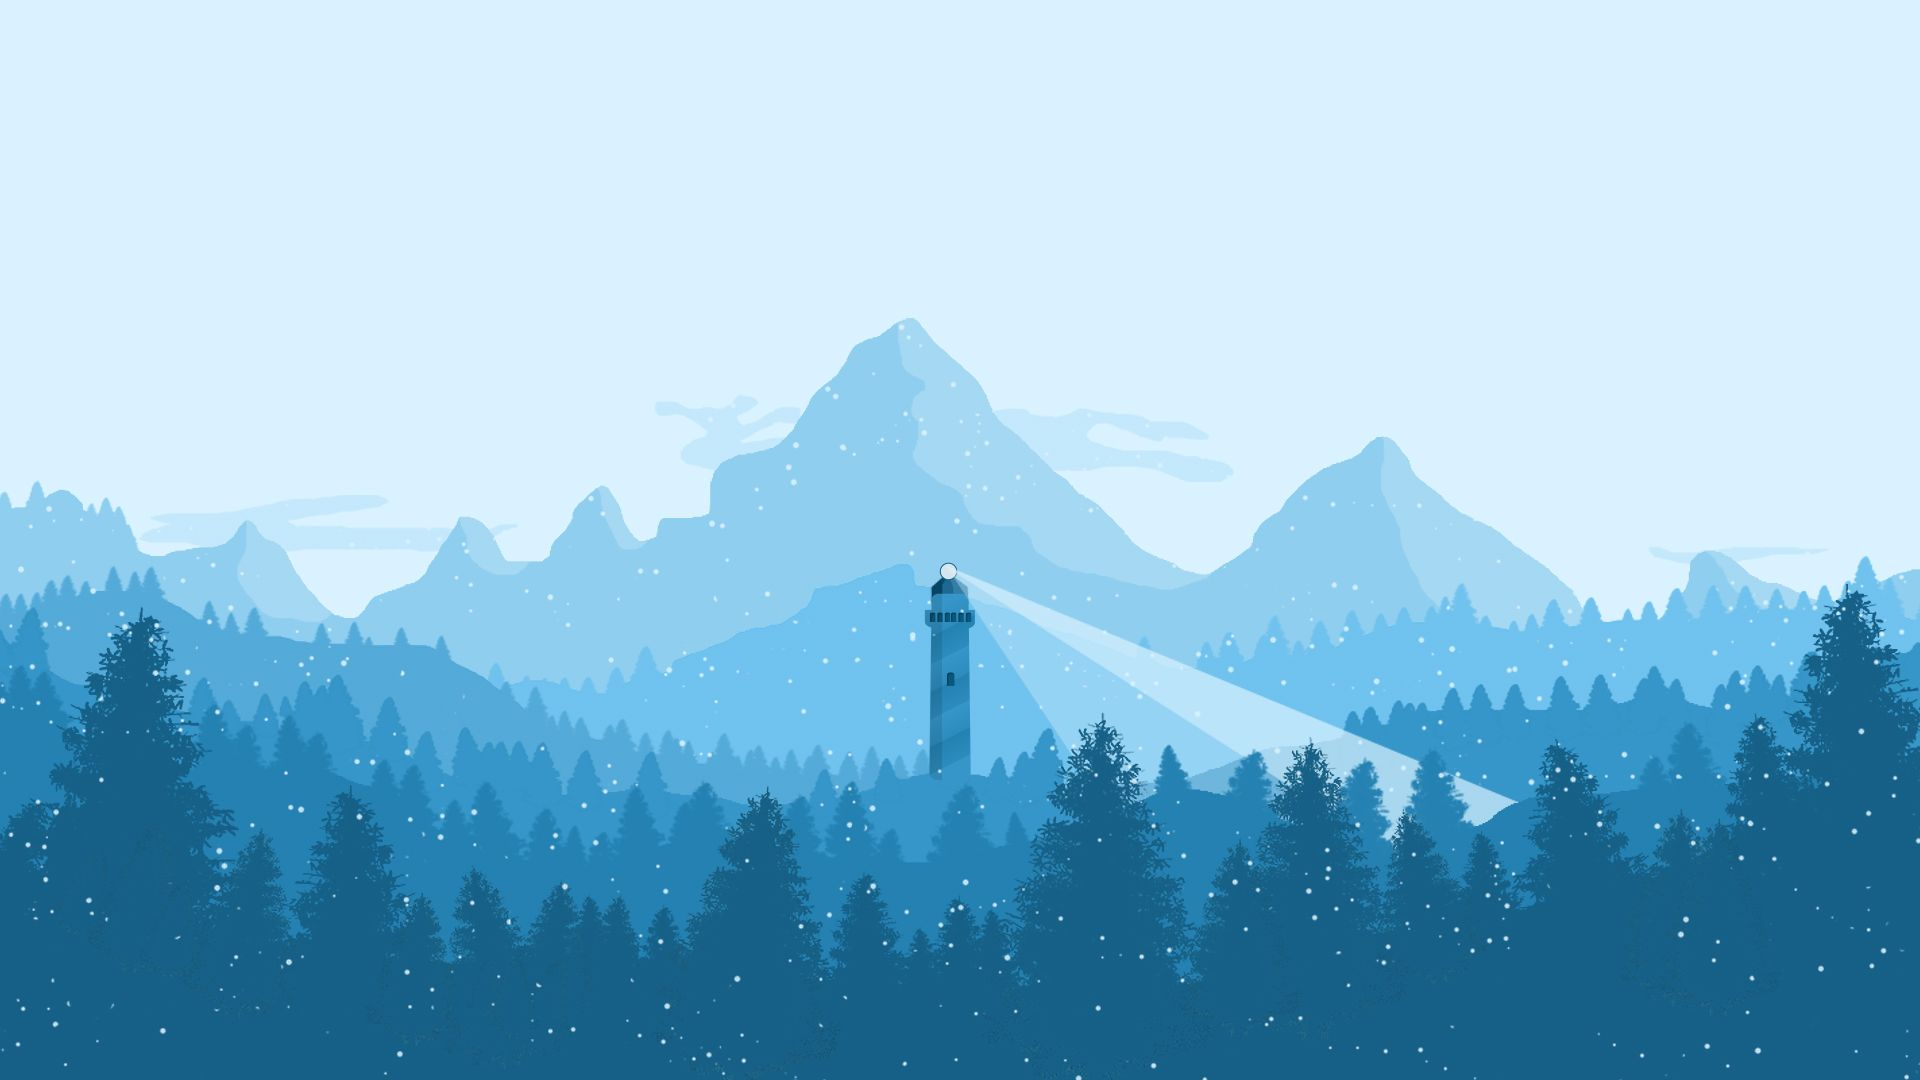
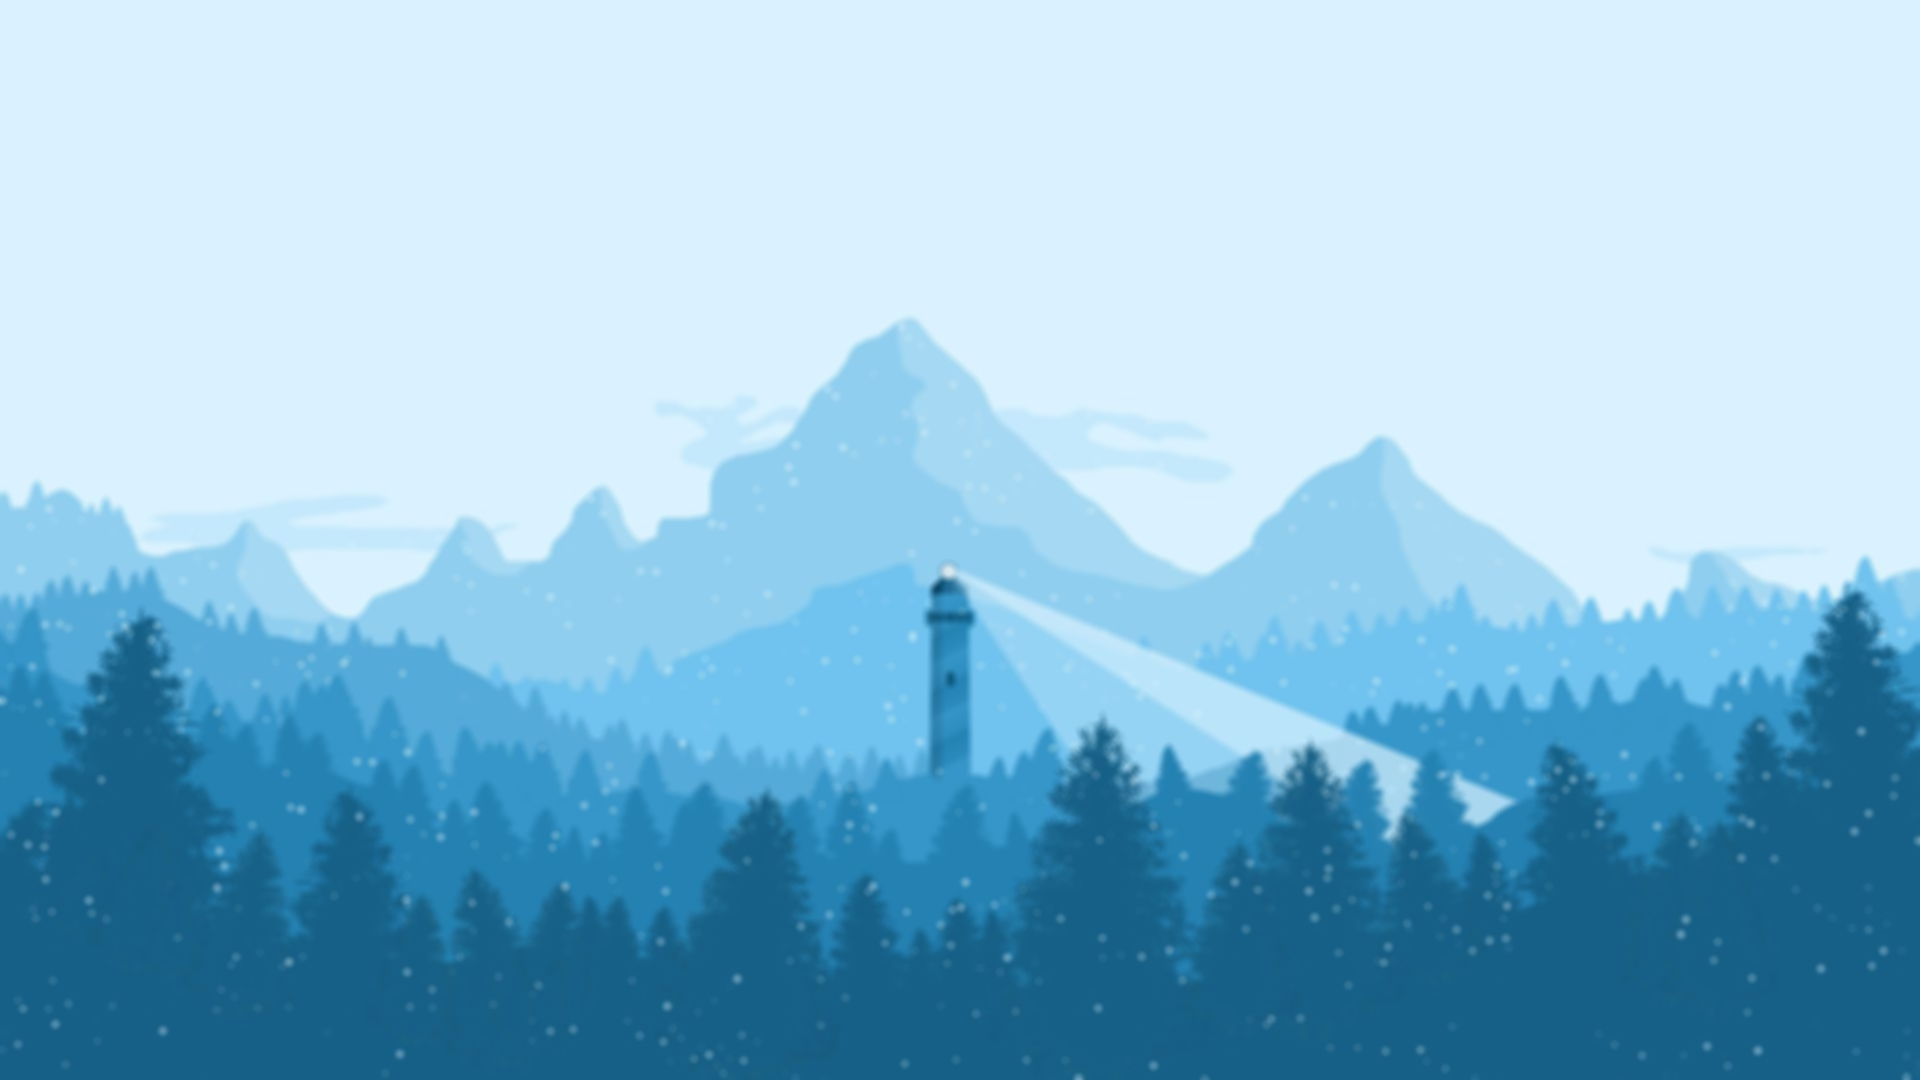
High DPI fix

diff --git a/css/style.css b/css/style.css
@@ -8,30 +8,8 @@
     top: 30%;
 }
 
-.content:before {
-    content: "";
-    position: fixed;
-    left: 0;
-    right: 0;
-    top: 5px;
-    z-index: -1;
-
-    display: block;
-    background-image: url('../assets/bg.jpg');
-    height: 100vh;
-
-    -webkit-filter: blur(4px);
-    -moz-filter: blur(4px);
-    -o-filter: blur(4px);
-    -ms-filter: blur(4px);
-    filter: blur(4px);
-}
-
-.content {
-    position: fixed;
-    left: 0;
-    right: 0;
-    z-index: 0;
-    margin-left: 0;
-    margin-right: 0;
+body {
+    background-size: auto;
+    background: url("../assets/bg.jpg") no-repeat center;
+    overflow: hidden;
 }

diff --git a/index.html b/index.html
@@ -13,7 +13,7 @@
 
     <body>
         <!-- Particle Container -->
-        <div id="particles-js" class="content">
+        <div id="particles-js">
 
             <!-- Image Container -->
             <div class="hero-image-block">
